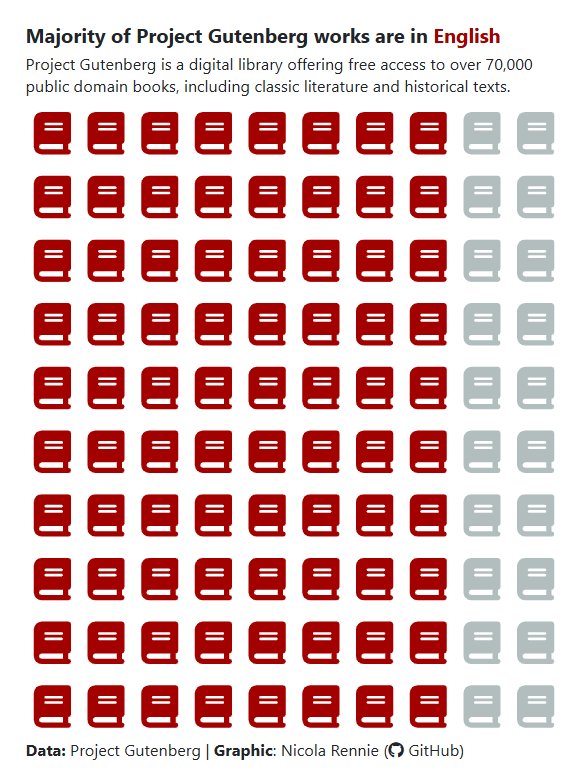
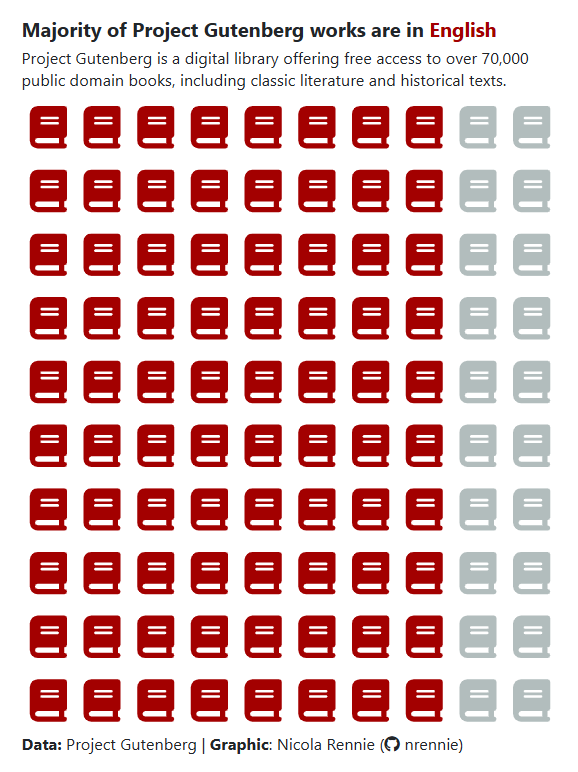
fix typo

Changed region(s): [[0.0311, 0.0311, 0.9654, 0.6839], [0.0311, 0.715, 0.9654, 0.9948], [0.4983, 0.6528, 0.5294, 0.6839]]

diff --git a/2025/2025-06-03/20250603.js b/2025/2025-06-03/20250603.js
@@ -92,7 +92,7 @@ function chart(data) {
       .style("line-height", "1.4")
       .style("text-align", "left")
       .html(
-        "<b>Data:</b> Project Gutenberg | <b>Graphic</b>: Nicola Rennie (<i class='fa-brands fa-github'></i> GitHub)"
+        "<b>Data:</b> Project Gutenberg | <b>Graphic</b>: Nicola Rennie (<i class='fa-brands fa-github'></i> nrennie)"
       );
   
 }
